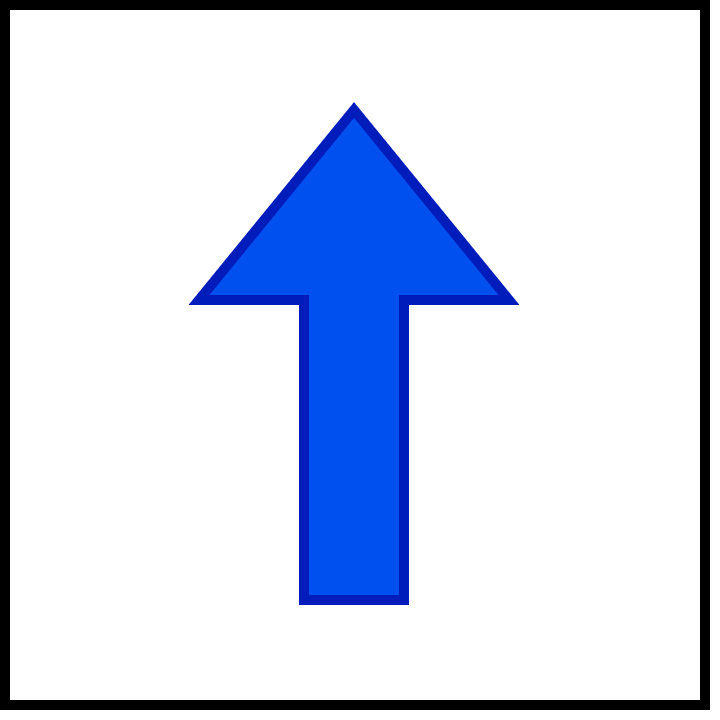
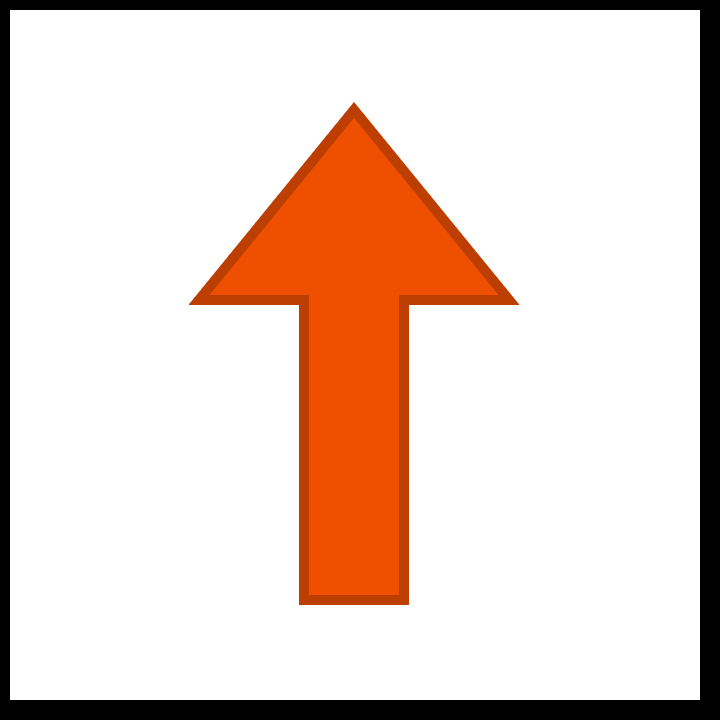
Change arrow signs from blue to orange, fix false positives
Blue arrows were confused with blue linoleum floor tiles (H~105).
Orange arrows (H~10, S>150) are unique in the world — no other
orange surfaces exist.

Changes:
- Recolored forward.png and rotate_180_clockwise.png from blue to orange
- Updated HSV filter params: H 0-25, S>150, V>100
- Tightened dedup radius: 1.0m → 0.6m (fixes same-type coalescing)
- Made sign cube markers translucent (alpha 0.3) so signs visible inside
- Renamed _is_blue_mask → _is_arrow_color_mask

Changed region(s): [[0.2444, 0.1528, 0.7333, 0.8556], [0.0, 0.0, 1.0, 1.0]]

diff --git a/mini_r1_v1_application/scripts/marker_detector_node.py b/mini_r1_v1_application/scripts/marker_detector_node.py
@@ -62,13 +62,13 @@ class MarkerDetectorNode(Node):
         self.aruco_marker_length = self.declare_parameter('aruco_marker_length', 0.5).value
         self.aruco_box_size = self.declare_parameter('aruco_box_size', 0.5).value
 
-        # Sign detection params (for SAM mask filtering)
-        self.sign_blue_h_low = int(self.declare_parameter('sign_blue_h_low', 100).value)
-        self.sign_blue_h_high = int(self.declare_parameter('sign_blue_h_high', 130).value)
-        self.sign_blue_s_min = int(self.declare_parameter('sign_blue_s_min', 100).value)
-        self.sign_blue_v_min = int(self.declare_parameter('sign_blue_v_min', 80).value)
+        # Sign detection params (for SAM mask filtering — orange arrows)
+        self.sign_arrow_h_low = int(self.declare_parameter('sign_arrow_h_low', 0).value)
+        self.sign_arrow_h_high = int(self.declare_parameter('sign_arrow_h_high', 25).value)
+        self.sign_arrow_s_min = int(self.declare_parameter('sign_arrow_s_min', 150).value)
+        self.sign_arrow_v_min = int(self.declare_parameter('sign_arrow_v_min', 100).value)
         self.sign_min_mask_area = int(self.declare_parameter('sign_min_mask_area', 300).value)
-        self.sign_blue_ratio_min = self.declare_parameter('sign_blue_ratio_min', 0.35).value
+        self.sign_arrow_ratio_min = self.declare_parameter('sign_arrow_ratio_min', 0.30).value
         self.sign_curved_max_convexity = self.declare_parameter('sign_curved_max_convexity', 0.65).value
 
         # ── FastSAM (YOLO-based, much faster than MobileSAM) ──
@@ -316,16 +316,16 @@ class MarkerDetectorNode(Node):
     # ══════════════════════════════════════════════════════════════════════
     #  MobileSAM Sign Detection
     # ══════════════════════════════════════════════════════════════════════
-    def _is_blue_mask(self, hsv_img, mask):
-        """Check if >blue_ratio_min of mask pixels are blue."""
-        blue_lower = np.array([self.sign_blue_h_low, self.sign_blue_s_min, self.sign_blue_v_min])
-        blue_upper = np.array([self.sign_blue_h_high, 255, 255])
-        blue_in_hsv = cv2.inRange(hsv_img, blue_lower, blue_upper)
-        blue_pixels = np.count_nonzero(blue_in_hsv & mask)
+    def _is_arrow_color_mask(self, hsv_img, mask):
+        """Check if >arrow_ratio_min of mask pixels are orange (arrow color)."""
+        lower = np.array([self.sign_arrow_h_low, self.sign_arrow_s_min, self.sign_arrow_v_min])
+        upper = np.array([self.sign_arrow_h_high, 255, 255])
+        color_in_hsv = cv2.inRange(hsv_img, lower, upper)
+        color_pixels = np.count_nonzero(color_in_hsv & mask)
         mask_pixels = np.count_nonzero(mask)
         if mask_pixels == 0:
             return False
-        return (blue_pixels / mask_pixels) > self.sign_blue_ratio_min
+        return (color_pixels / mask_pixels) > self.sign_arrow_ratio_min
 
     def _has_white_surround(self, hsv_img, mask, margin=20):
         """Check if area around mask has white pixels (the sign panel)."""
@@ -432,8 +432,8 @@ class MarkerDetectorNode(Node):
                 if mask_area > (h_img * w_img * 0.1):
                     continue
 
-                # Filter: must be blue
-                if not self._is_blue_mask(hsv, mask_u8):
+                # Filter: must be orange (arrow color)
+                if not self._is_arrow_color_mask(hsv, mask_u8):
                     continue
 
                 # Filter: must have white surround (sign panel)
@@ -477,14 +477,14 @@ class MarkerDetectorNode(Node):
                 world_y = float(p_odom[1]) + self.spawn_y
                 world_z = float(p_odom[2])
 
-                # Dedup: skip if within 1m AND same direction type
+                # Dedup: skip if within 0.6m AND same direction type
                 already_locked = False
                 for key in self.locked_panel_signs:
                     pm = self.locked_panel_signs[key]
                     ddx = pm.pose.position.x - world_x
                     ddy = pm.pose.position.y - world_y
-                    if (ddx*ddx + ddy*ddy) < 1.0:
-                        # Check if same direction (stored in text of corresponding text marker)
+                    dist_sq = ddx*ddx + ddy*ddy
+                    if dist_sq < 0.36:  # 0.6m radius
                         for vm in self.locked_viz_signs.get(key, []):
                             if vm.type == Marker.TEXT_VIEW_FACING and direction in vm.text:
                                 already_locked = True
@@ -556,12 +556,13 @@ class MarkerDetectorNode(Node):
                     mtype=Marker.TEXT_VIEW_FACING,
                     text=f"Sign: {direction}", ns="sign_text")
 
-                # Cube marker at sign position
+                # Cube marker at sign position (translucent so sign is visible inside)
                 viz_cube = self._make_marker(
                     sign_id, stamp,
                     float(p_odom[0]), float(p_odom[1]), float(p_odom[2]),
                     cr, cg, cb, lifetime=0, ns="sign",
                     sx=0.3, sy=0.3, sz=0.3)
+                viz_cube.color.a = 0.3
 
                 # Panel marker for mission control (world coords)
                 panel_m = self._make_marker(
